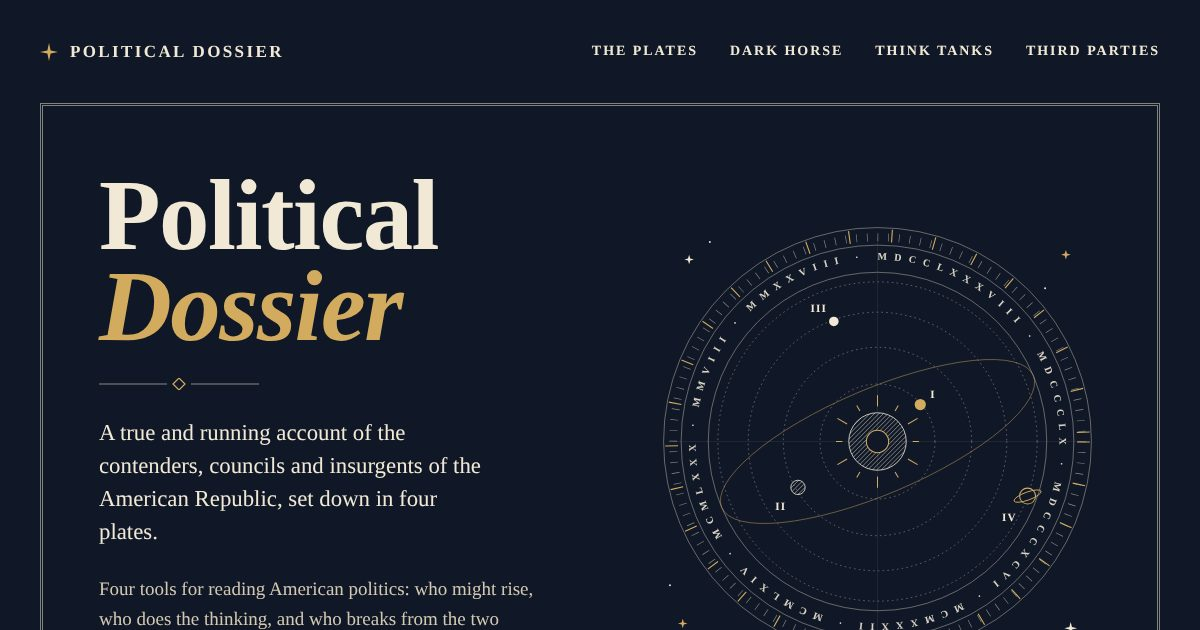
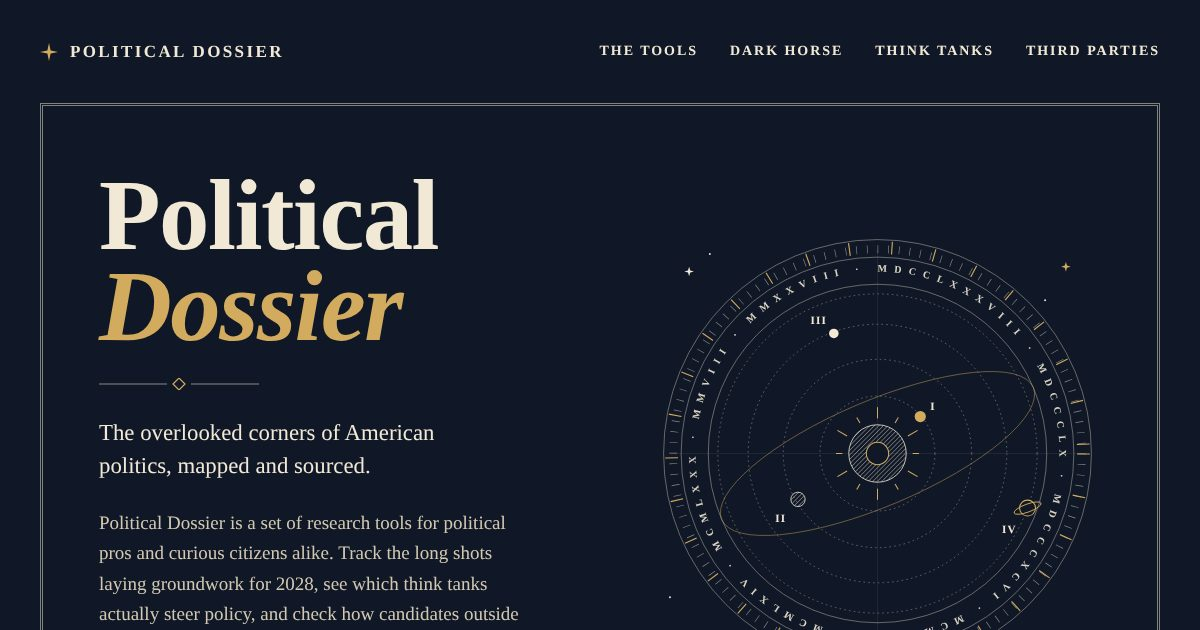
Homepage copy: plainer, more direct voice
Claude-Session: https://claude.ai/code/session_019vCJ1BoYakHYrbDmWevB7i

diff --git a/index.html b/index.html
@@ -14,7 +14,7 @@
 <meta property="og:site_name" content="Political Dossier">
 <meta property="og:locale" content="en_US">
 <meta property="og:title" content="Political Dossier: Tools for Reading American Politics">
-<meta property="og:description" content="Independent tools for U.S. politics analysis: a 2028 dark horse presidential tracker, an atlas comparing America's think tanks and policy shops, and third-party election results.">
+<meta property="og:description" content="Research tools for the overlooked corners of U.S. politics: a 2028 dark horse tracker, a map of think tanks and policy shops, and third-party election results. All sourced.">
 <meta property="og:url" content="https://politicaldossier.com/">
 <meta property="og:image" content="https://politicaldossier.com/assets/social/home.jpg">
 <meta property="og:image:width" content="1200">
@@ -22,7 +22,7 @@
 <meta property="og:image:alt" content="Political Dossier homepage: an engraved orrery beside the title">
 <meta name="twitter:card" content="summary_large_image">
 <meta name="twitter:title" content="Political Dossier: Tools for Reading American Politics">
-<meta name="twitter:description" content="Independent tools for U.S. politics analysis: a 2028 dark horse presidential tracker, an atlas comparing America's think tanks and policy shops, and third-party election results.">
+<meta name="twitter:description" content="Research tools for the overlooked corners of U.S. politics: a 2028 dark horse tracker, a map of think tanks and policy shops, and third-party election results. All sourced.">
 <meta name="twitter:image" content="https://politicaldossier.com/assets/social/home.jpg">
 <meta name="twitter:image:alt" content="Political Dossier homepage: an engraved orrery beside the title">
 <script type="application/ld+json">
@@ -75,7 +75,7 @@
 }
 </script>
 <!-- /SEO -->
-<meta name="description" content="Independent tools for U.S. politics analysis: a 2028 dark horse presidential tracker, an atlas comparing America's think tanks and policy shops, and third-party election results.">
+<meta name="description" content="Research tools for the overlooked corners of U.S. politics: a 2028 dark horse tracker, a map of think tanks and policy shops, and third-party election results. All sourced.">
 <link rel="preconnect" href="https://fonts.googleapis.com">
 <link rel="preconnect" href="https://fonts.gstatic.com" crossorigin>
 <link href="https://fonts.googleapis.com/css2?family=Cinzel:wght@500;600;700&family=EB+Garamond:ital,wght@0,600;0,700;1,600&family=Spectral:wght@400;500;600&display=swap" rel="stylesheet">
@@ -92,7 +92,7 @@
         Political Dossier
       </a>
       <div class="navlinks label">
-        <a href="#plates">The Plates</a>
+        <a href="#plates">The Tools</a>
         <a href="dark-horse/">Dark Horse</a>
         <a href="think-tanks/">Think Tanks</a>
         <a href="third-party/">Third Parties</a>
@@ -103,11 +103,11 @@
       <div class="hero-copy">
         <h1>Political<br><em>Dossier</em></h1>
         <svg width="160" height="12" viewBox="0 0 160 12" aria-hidden="true"><line x1="0" y1="6" x2="68" y2="6" stroke="#F1E9D6" stroke-opacity=".55"/><path d="M80 0 L86 6 L80 12 L74 6 Z" fill="none" stroke="#D2AB5F" stroke-width="1.2"/><line x1="92" y1="6" x2="160" y2="6" stroke="#F1E9D6" stroke-opacity=".55"/></svg>
-        <p class="lede">A true and running account of the contenders, councils and insurgents of the American Republic, set down in four plates.</p>
-        <p class="sub">Four tools for reading American politics: who might rise, who does the thinking, and who breaks from the two parties. A fourth is on its way.</p>
+        <p class="lede">The overlooked corners of American politics, mapped and sourced.</p>
+        <p class="sub">Political Dossier is a set of research tools for political pros and curious citizens alike. Track the long shots laying groundwork for 2028, see which think tanks actually steer policy, and check how candidates outside the two parties did at the ballot box. Every claim links to its source.</p>
         <div class="ctas">
-          <a class="btn btn-gold label" href="#plates">Open the Plates ↓</a>
-          <a class="btn btn-line label" href="dark-horse/">See the 2028 Field</a>
+          <a class="btn btn-gold label" href="#plates">Explore the tools ↓</a>
+          <a class="btn btn-line label" href="dark-horse/">See the 2028 field</a>
         </div>
       </div>
 
@@ -173,7 +173,7 @@
         <div class="kicker label">The Tools</div>
         <h2 id="plates-title">Four tools.</h2>
       </div>
-      <p>Hover a tool to see a preview. Each opens as its own page. The fourth is on its way.</p>
+      <p>Hover over a tool for a quick look, or click through to dig in. A fourth is in the works.</p>
     </div>
 
     <div class="grid">
@@ -182,7 +182,7 @@
       <a class="plate" href="dark-horse/">
         <div class="meta label"><span class="num">Plate I</span><span class="tag">Updated weekly</span></div>
         <h3>The Dark Horse Tracker</h3>
-        <p>The 2028 field beyond the front-runners: Democrats, Republicans and independents worth watching.</p>
+        <p>Who's quietly laying groundwork for 2028 beyond the obvious names. Democrats, Republicans and independents, sorted by how serious they look, with a fresh log every week.</p>
         <div class="window">
           <div class="idle">
             <svg width="44" height="44" viewBox="0 0 44 44" aria-hidden="true"><circle cx="22" cy="22" r="20" fill="none" stroke="#1C1A16" stroke-width="1.2"/><circle cx="22" cy="22" r="7" fill="#9A3722"/></svg>
@@ -202,7 +202,7 @@
               </g>
               <g fill="#F1E9D6"><circle cx="392" cy="40" r="8"/><circle cx="398" cy="80" r="9"/></g>
             </svg>
-            <span class="enter">Enter the plate →</span>
+            <span class="enter">Open the tool →</span>
           </div>
         </div>
       </a>
@@ -211,7 +211,7 @@
       <a class="plate" href="think-tanks/">
         <div class="meta label"><span class="num">Plate II</span><span class="tag">121 organizations</span></div>
         <h3>The Policy Ecosystem Atlas</h3>
-        <p>The think tanks and advocacy groups shaping policy, surveyed as Democratic and Republican countries, their provinces, and the isles between.</p>
+        <p>Which think tanks and policy shops hold real sway, who they answer to, and where they split. 121 organizations, mapped as two rival countries and the islands between them.</p>
         <div class="window">
           <div class="idle">
             <svg width="44" height="44" viewBox="0 0 44 44" aria-hidden="true"><circle cx="22" cy="22" r="20" fill="none" stroke="#1C1A16" stroke-width="1.2"/><ellipse cx="14" cy="22" rx="7" ry="10" fill="none" stroke="#1C1A16"/><ellipse cx="30" cy="22" rx="7" ry="10" fill="none" stroke="#9A3722"/><circle cx="22" cy="22" r="1.8" fill="#9A3722"/></svg>
@@ -227,7 +227,7 @@
               <g fill="#D2AB5F" stroke="#101827" stroke-width=".8"><path d="M212 44 l8 -4 l8 4 l-2 8 l-10 2 z"/><path d="M208 76 l10 -3 l9 5 l-3 8 l-12 0 z"/><path d="M214 106 l9 -3 l7 5 l-4 7 l-10 -1 z"/></g>
               <g class="sc" font-size="10" fill="#D3C9B2" text-anchor="middle" letter-spacing="1.2"><text x="107" y="9">DEMOCRATIC</text><text x="333" y="9">REPUBLICAN</text><text x="220" y="30">ISLES</text></g>
             </svg>
-            <span class="enter">Enter the plate →</span>
+            <span class="enter">Open the tool →</span>
           </div>
         </div>
       </a>
@@ -236,7 +236,7 @@
       <a class="plate" href="third-party/">
         <div class="meta label"><span class="num">Plate III</span><span class="tag">2026 midterms</span></div>
         <h3>Third-Party Performance</h3>
-        <p>Independent and third-party candidates who posted notable results in the Nov. 3, 2026 races, mapped state by state.</p>
+        <p>How independent and third-party candidates actually fared on Nov. 3, 2026, race by race and state by state, from the U.S. Senate down to the statehouse.</p>
         <div class="window">
           <div class="idle">
             <svg width="44" height="44" viewBox="0 0 44 44" aria-hidden="true"><circle cx="22" cy="22" r="20" fill="none" stroke="#1C1A16" stroke-width="1.2"/><rect x="12" y="20" width="5" height="14" fill="#1C1A16"/><rect x="20" y="12" width="5" height="22" fill="#9A3722"/><rect x="28" y="24" width="5" height="10" fill="#1C1A16"/></svg>
@@ -250,7 +250,7 @@
               <g class="num-t" font-size="12.5" fill="#F1E9D6" text-anchor="middle"><text x="60" y="26.0">40.9%</text><text x="140" y="33.0">37.7%</text><text x="220" y="54.8">27.8%</text><text x="300" y="95.5">9.3%</text><text x="380" y="98.1">8.1%</text></g>
               <g class="sc" font-size="10" fill="#D3C9B2" text-anchor="middle" letter-spacing=".8"><text x="60" y="138">AK HOUSE</text><text x="60" y="152">HILL</text><text x="140" y="138">MT SENATE</text><text x="140" y="152">BODNAR</text><text x="220" y="138">RI GOV</text><text x="220" y="152">BLOCK</text><text x="300" y="138">TN GOV</text><text x="300" y="152">HATLEY</text><text x="380" y="138">ME GOV</text><text x="380" y="152">BENNETT</text></g>
             </svg>
-            <span class="enter">Enter the plate →</span>
+            <span class="enter">Open the tool →</span>
           </div>
         </div>
       </a>
@@ -273,8 +273,8 @@
 
 <footer id="colophon">
   <div class="wrap">
-    <span class="label">Political Dossier · Kept at Seattle · MMXXVI</span>
-    <span>Set in EB Garamond, Cinzel and Spectral.</span>
+    <span class="label">Political Dossier · Built in Seattle by <a href="https://ianhanson.com" style="color:inherit">Ian Hanson</a></span>
+    <span>Sources are linked throughout. Spot an error? <a href="mailto:ian@ianhanson.com" style="color:inherit">Let me know</a>.</span>
   </div>
 </footer>
 
